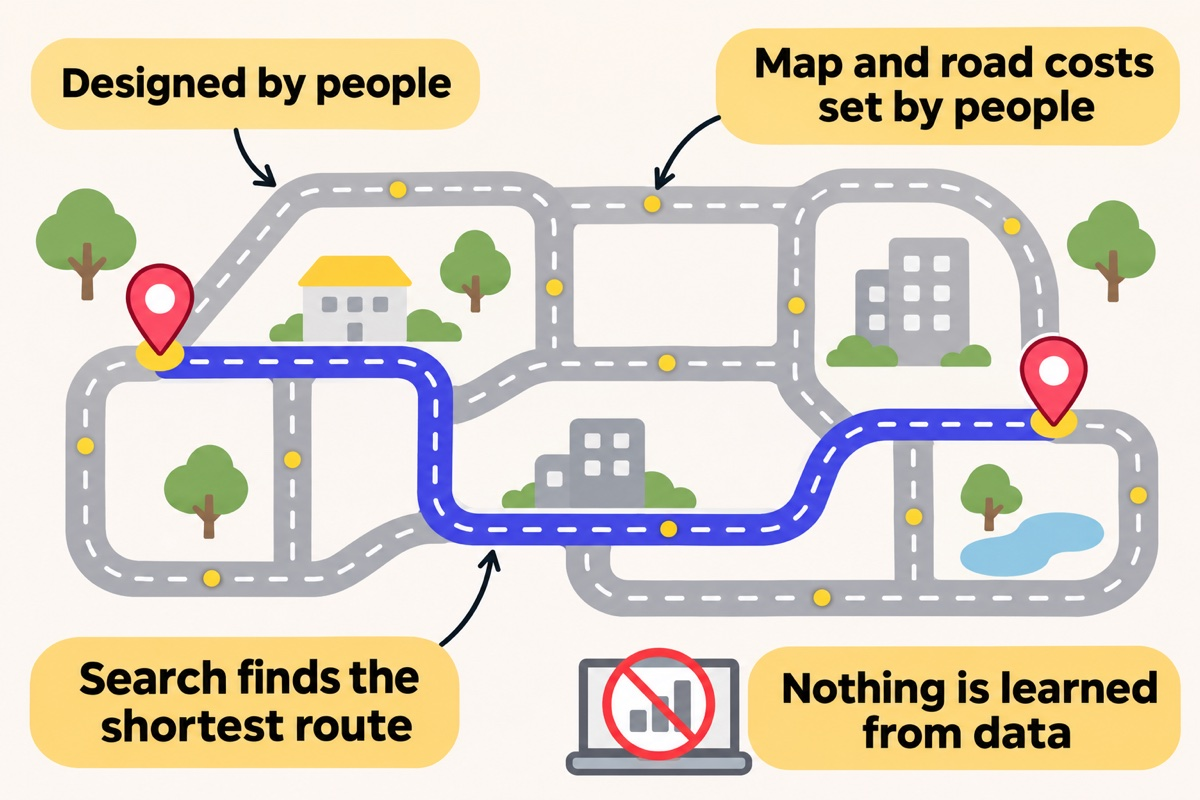
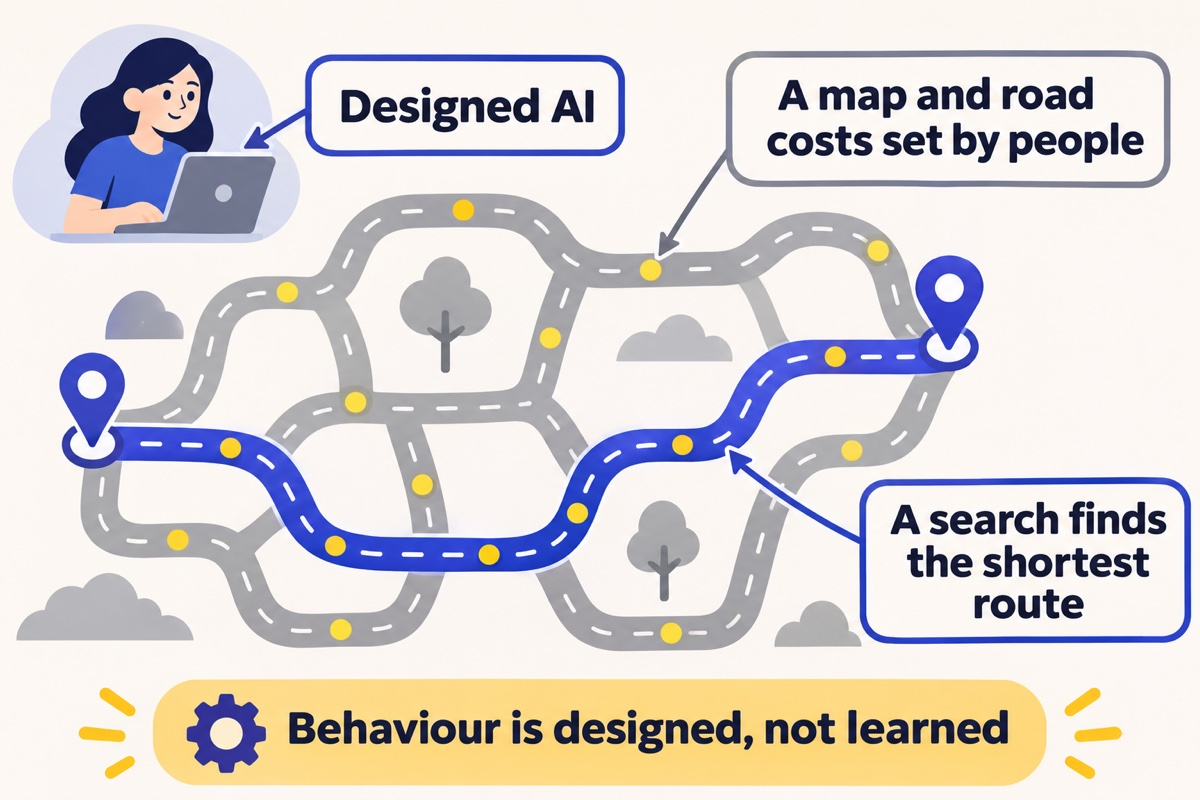
c1-01: refine designed-AI image label and wording

diff --git a/src/lessons/genai-basics/c1-01/Lesson.tsx b/src/lessons/genai-basics/c1-01/Lesson.tsx
@@ -79,7 +79,7 @@ export default function Lesson() {
         <h2 tabIndex={-1}>Artificial intelligence: the outer ring.</h2>
         <Figure
           src="/lessons/c1-01/ai-rules.jpg"
-          alt="A road map with a start and an end pin and a highlighted shortest route. Labels: Designed by people; Map and road costs set by people; Search finds the shortest route; Nothing is learned from data."
+          alt="A road map with a start and an end pin and a highlighted shortest route. Labels: Designed AI; A map and road costs set by people; A search finds the shortest route; Behaviour is designed, not learned."
           caption="Designed AI: people set the map and the costs, and a search finds the route."
         />
         <p>
@@ -92,11 +92,14 @@ export default function Lesson() {
           family.
         </p>
         <p>
-          Designed AI can be large. A route planner searches a whole road map
-          for the shortest way using costs that people set. A chess program
-          searches millions of positions and scores them with rules chess
-          experts wrote. An expert system can hold thousands of rules. None of
-          them learned anything from data, and all of them are classic AI.
+          Designed AI can be large. Take a simple route planner: it searches a
+          whole road map for the shortest way, using costs that people set by
+          hand. A chess program of the classic kind searches millions of
+          positions and scores them with rules that chess experts wrote. An
+          expert system can hold thousands of rules. In these versions nothing
+          is learned from data, and all of them are classic AI. (Real route
+          planners and chess engines often add learning on top, which is why the
+          families overlap in real products.)
         </p>
         <div className={styles.example}>
           <strong>In Postbox</strong>
